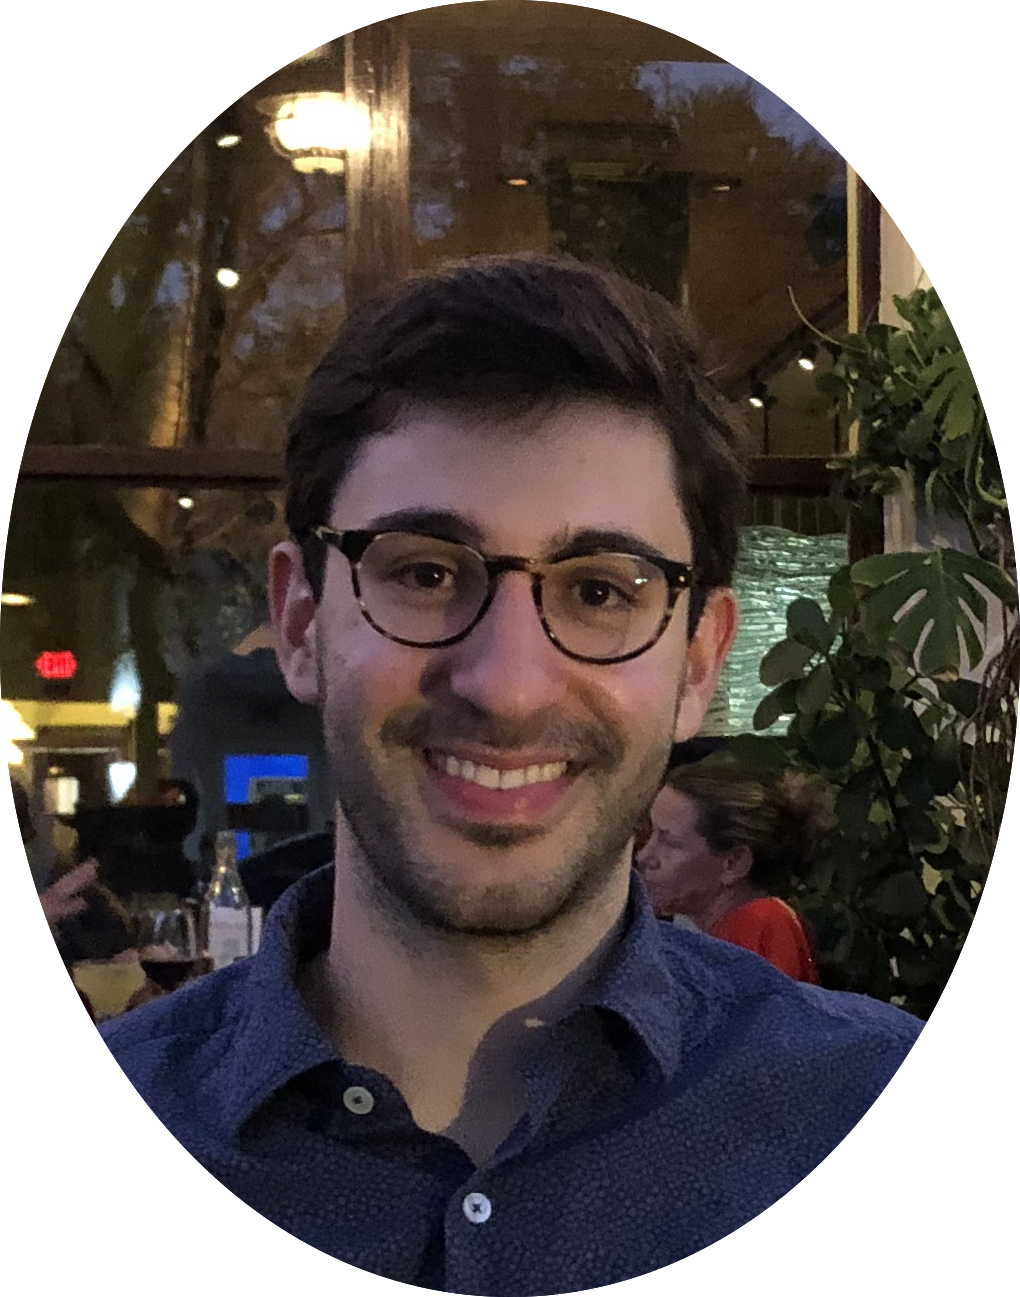
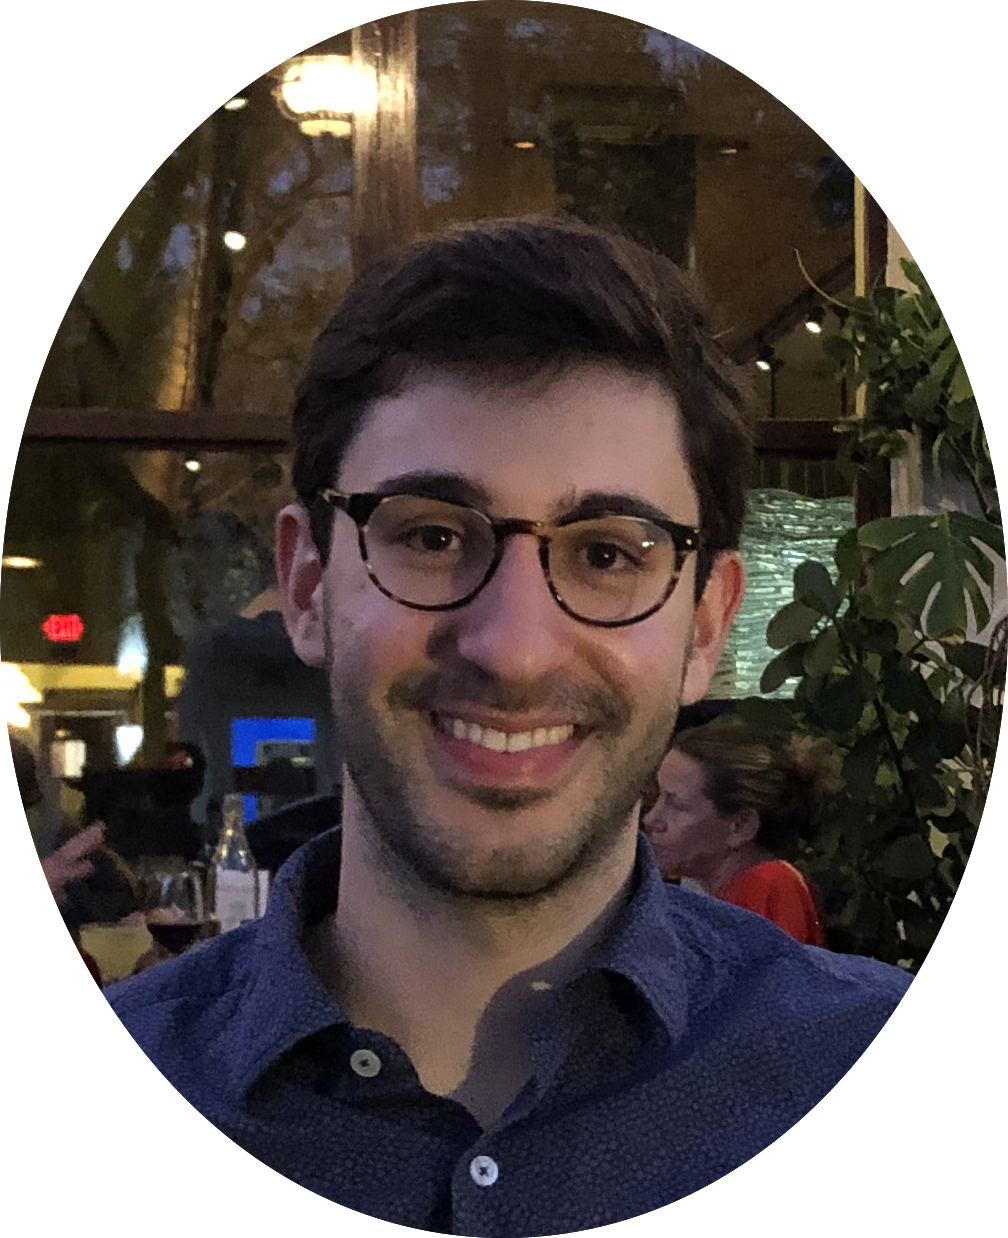
Change photo/scaling
Make photo bit rounder

diff --git a/index.html b/index.html
@@ -18,7 +18,7 @@
       <header>
         <h1>Julian Asilis</h1>
         
-        <img src="/documents/photo.png" alt="picture of me :)", width="500", height="350">
+        <img src="/documents/photo.png" alt="picture of me :)", width="450", height="315">
 
         <!-- <p class="view"><a href="http://github.com/orderedlist/minimal">View the Project on GitHub <small>orderedlist/minimal</small></a></p>
         <ul>
@@ -49,8 +49,8 @@
         and Complexity in Analysis.</em> 
         </p>
         <ul>
-          <li><a href="http://cca-net.de/cca2021/abstracts/Asilis.pdf">Extended Abstract</a></li>
-          <li><a href="http://cca-net.de/cca2021/slides/Asilis.pdf">Slides</a></li>
+          <li><a href="http://cca-net.de/cca2021/abstracts/Asilis.pdf">Download <strong>Extended Abstract</strong></a></li>
+          <li><a href="http://cca-net.de/cca2021/slides/Asilis.pdf">Download <strong>Slides</strong></a></li>
         </ul>
 
         <!-- =============================== Example code =============================== -->
